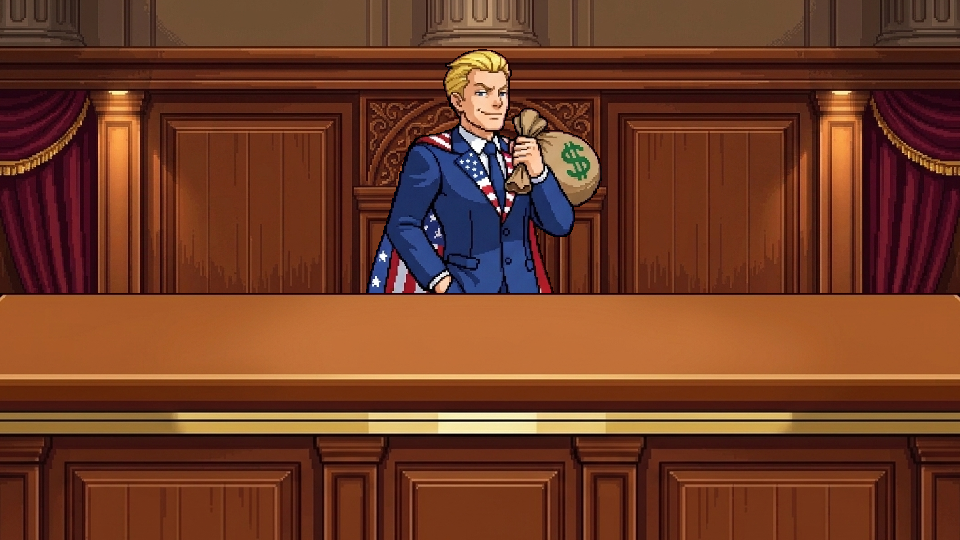
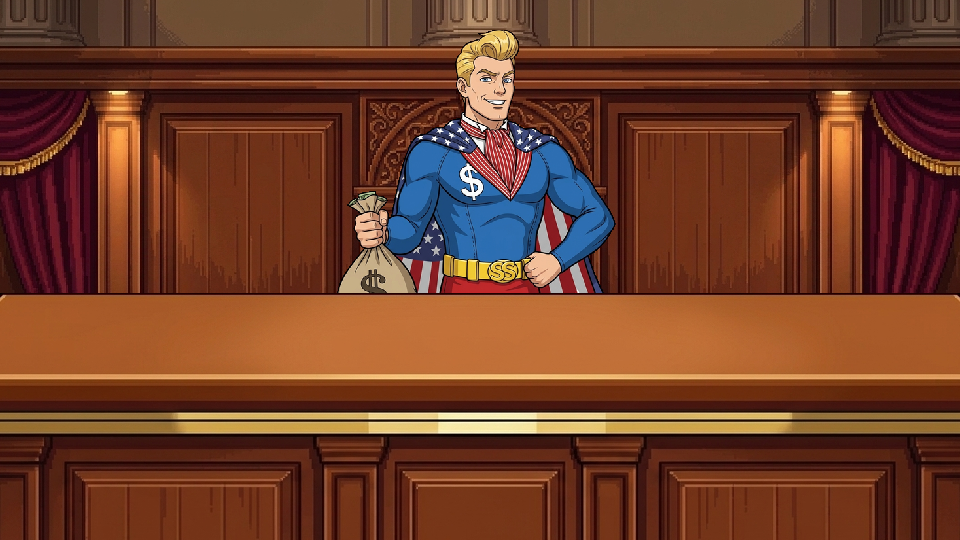
fix supersam slam

Changed region(s): [[0.3438, 0.0593, 0.6562, 0.563]]

diff --git a/tests/assets/SlamSpriteContact.test.ts b/tests/assets/SlamSpriteContact.test.ts
@@ -1,0 +1,51 @@
+// @Architecture(descriptionShort="Guards Super Sam slam identity and desk-contact silhouette", type="test", icon="layers")
+import { execFileSync } from 'node:child_process';
+import path from 'node:path';
+import { describe, expect, it } from 'vitest';
+
+/**
+ * bench-slam is solved against chapulin_slam.png. Super Sam's slam must share that
+ * A-frame silhouette (see-through waist, palms at the bottom) or his torso paints
+ * onto the bench. Costume markers must also match idle/point/breakdown.
+ */
+function measurePng(fileName: string): {
+  notch: number | null;
+  palms: number;
+  center80: number;
+  red: number;
+  gold: number;
+} {
+  const pngPath = path.resolve(__dirname, '../../assets', fileName);
+  const py = [
+    'from PIL import Image',
+    'import json, numpy as np, sys',
+    'a = np.array(Image.open(sys.argv[1]).convert("RGBA"))',
+    'fg = a[:,:,3] > 8',
+    'h, w = fg.shape',
+    'cx0, cx1 = int(w * 0.35), int(w * 0.65)',
+    'notch = next((y for y in range(int(h * 0.70), h)',
+    '    if fg[y,:cx0].any() and fg[y,cx1:].any() and fg[y,cx0:cx1].mean() < 0.25), None)',
+    'rows = np.where(fg.any(1))[0]',
+    'mask = a[:,:,3] > 200',
+    'rgb = a[:,:,:3]',
+    'red = int(((rgb[:,:,0]>160)&(rgb[:,:,1]<90)&(rgb[:,:,2]<90)&mask).sum())',
+    'gold = int(((rgb[:,:,0]>180)&(rgb[:,:,1]>140)&(rgb[:,:,2]<80)&mask).sum())',
+    'print(json.dumps({"notch": notch, "palms": int(rows[-1]),',
+    '    "center80": int(fg[-80:, w//2].sum()), "red": red, "gold": gold}))'
+  ].join('\n');
+  return JSON.parse(execFileSync('python', ['-c', py, pngPath], { encoding: 'utf8' }));
+}
+
+describe('Super Sam slam sprite', () => {
+  it('keeps the desk-contact notch and matching costume colors', () => {
+    const m = measurePng('supersam_slam.png');
+    // Waist gap must open near chapulin_slam's 448/512 target, not down on the wood.
+    expect(m.notch).toBeGreaterThanOrEqual(430);
+    expect(m.notch).toBeLessThanOrEqual(460);
+    expect(m.palms).toBeGreaterThanOrEqual(500);
+    expect(m.center80).toBe(0);
+    // Idle/point have a gold SS belt and red trunks; the old slam had ~50 gold pixels.
+    expect(m.gold).toBeGreaterThan(1500);
+    expect(m.red).toBeGreaterThan(3000);
+  });
+});

diff --git a/src/audio/Private/tracks/TurnaroundTracks.ts b/src/audio/Private/tracks/TurnaroundTracks.ts
@@ -55,7 +55,7 @@ export const objectionTrack: TrackDefinition = {
     0, 0, [55,60,63], 0, 0, 0, [55,60,63], 0, 0, 0, [55,60,63], 0, 0, 0, [55,60,63], 0,
     0, 0, [57,62,65], 0, 0, 0, [57,62,65], 0, 0, 0, [57,62,65], 0, 0, 0, [57,62,65], 0,
     0, 0, [55,58,63], 0, 0, 0, [55,58,63], 0, 0, 0, [55,58,63], 0, 0, 0, [55,58,63], 0,
-    0, 0, [57,60,65], 0, 0, 0, [57,60,65], 0, 0, 0, [57,60,65], 0, [58,61,66], 0, 0, 0,
+    0, 0, [57,60,65], 0, 0, 0, [57,60,65], 0, 0, 0, [57,60,65], 0, 0, [58,61,66], 0, 0,
     0, 0, [55,58,62], 0, 0, 0, [55,58,62], 0, 0, 0, [55,58,62], 0, 0, 0, [55,58,62], 0,
     0, 0, [53,57,60], 0, 0, 0, [53,57,60], 0, 0, 0, [53,57,60], 0, 0, 0, [53,57,60], 0,
     0, 0, [55,58,62], 0, 0, 0, [55,58,62], 0, 0, 0, [55,58,62], 0, 0, 0, [55,58,62], 0,
@@ -63,9 +63,9 @@ export const objectionTrack: TrackDefinition = {
     0, 0, [55,60,63], 0, 0, 0, [55,60,63], 0, 0, 0, [55,60,63], 0, 0, 0, [55,60,63], 0,
     0, 0, [57,62,65], 0, 0, 0, [57,62,65], 0, 0, 0, [57,62,65], 0, 0, 0, [57,62,65], 0,
     0, 0, [55,58,63], 0, 0, 0, [55,58,63], 0, 0, 0, [55,58,63], 0, 0, 0, [55,58,63], 0,
-    0, 0, [57,60,65], 0, 0, 0, [57,60,65], 0, 0, 0, [57,60,65], 0, [58,61,66], 0, 0, 0,
+    0, 0, [57,60,65], 0, 0, 0, [57,60,65], 0, 0, 0, [57,60,65], 0, 0, [58,61,66], 0, 0,
     0, 0, [55,58,62], 0, 0, 0, [55,58,62], 0, 0, 0, [55,58,62], 0, 0, 0, [55,58,62], 0,
-    0, 0, [53,57,60], 0, 0, 0, [53,57,60], 0, 0, 0, 0, 0, 0, 0, 0, 0, 0, 0,
+    0, 0, [53,57,60], 0, 0, 0, [53,57,60], 0, 0, 0, 0, 0, 0, 0, 0, 0,
   ],
   drums: [
     'KC', 'H', 'S', 'H', 'K', 'KH', 'S', 'H', 'KC', 'H', 'S', 'H', 'K', 'KH', 'S', 'H', 

diff --git a/tests/audio/MidiMusicComposer.test.ts b/tests/audio/MidiMusicComposer.test.ts
@@ -66,10 +66,10 @@ describe('MidiMusicComposer & TRACK_CATALOG', () => {
     composer.playTrack('trial');
     expect(composer.isPlaying).toBe(true);
     expect(composer.currentTrack).toBe('trial');
-    expect(composer.bpm).toBe(115);
+    expect(composer.bpm).toBe(110);
     expect(composer.step).toBe(0);
 
-    const stepMs = 60000 / 115 / 4;
+    const stepMs = 60000 / 110 / 4;
     vi.advanceTimersByTime(stepMs * 35);
     expect(composer.step).toBe(35);
 
@@ -85,7 +85,7 @@ describe('MidiMusicComposer & TRACK_CATALOG', () => {
     composer.playTrack('pursuit');
     expect(composer.currentTrack).toBe('pursuit');
     expect(composer.step).toBe(0);
-    expect(composer.bpm).toBe(158);
+    expect(composer.bpm).toBe(162);
   });
 
   it('stops and resumes playback reliably', () => {

diff --git a/process_assets.py b/process_assets.py
@@ -15,7 +15,8 @@ import numpy as np
 from PIL import Image
 from scipy import ndimage
 
-CURRENT_ARTIFACT_DIR = r"C:\Users\luiso\.gemini\antigravity\brain\7510db40-7e99-4124-9a9f-6691a7d11982"
+CURRENT_ARTIFACT_DIR = r"C:\Users\luiso\.gemini\antigravity\brain\ea504c98-228b-4b3d-ad8c-a1a238ea3b94"
+PREV_ARTIFACT_DIR_8 = r"C:\Users\luiso\.gemini\antigravity\brain\242c8b4f-9360-4ec8-b38f-ecac117b2298"
 PREV_ARTIFACT_DIR_7 = r"C:\Users\luiso\.gemini\antigravity\brain\e2f1a61b-7fc5-4a37-9032-9dce380a7993"
 PREV_ARTIFACT_DIR_6 = r"C:\Users\luiso\.gemini\antigravity\brain\9705331f-35fd-45c3-b901-2f14dab60aed"
 PREV_ARTIFACT_DIR_5 = r"C:\Users\luiso\.gemini\antigravity\brain\ce3ca77a-06af-4722-9a51-22316a36f2fc"
@@ -26,10 +27,14 @@ PREV_ARTIFACT_DIR_1 = r"C:\Users\luiso\.gemini\antigravity\brain\91e780e1-ee3d-4
 PREV_ARTIFACT_DIR = r"C:\Users\luiso\.gemini\antigravity\brain\7d7a0700-41bc-4655-a94e-d886430a5c04"
 LEGACY_ARTIFACT_DIR = r"C:\Users\luiso\.gemini\antigravity\brain\d6601f43-c0ae-494d-bbf8-ca413b3a64ed"
 DEST_DIR = r"c:\Proyectos\ace-attorney-gemini\assets"
+REPO_RAW_DIR = os.path.join(os.path.dirname(os.path.abspath(__file__)), "tools", "raw")
 os.makedirs(DEST_DIR, exist_ok=True)
 
 def find_asset_file(filename: str) -> str:
-    for d in [CURRENT_ARTIFACT_DIR, PREV_ARTIFACT_DIR_7, PREV_ARTIFACT_DIR_6, PREV_ARTIFACT_DIR_5, PREV_ARTIFACT_DIR_4, PREV_ARTIFACT_DIR_3, PREV_ARTIFACT_DIR_2, PREV_ARTIFACT_DIR_1, PREV_ARTIFACT_DIR, LEGACY_ARTIFACT_DIR]:
+    search = [REPO_RAW_DIR, CURRENT_ARTIFACT_DIR, PREV_ARTIFACT_DIR_8, PREV_ARTIFACT_DIR_7,
+              PREV_ARTIFACT_DIR_6, PREV_ARTIFACT_DIR_5, PREV_ARTIFACT_DIR_4, PREV_ARTIFACT_DIR_3,
+              PREV_ARTIFACT_DIR_2, PREV_ARTIFACT_DIR_1, PREV_ARTIFACT_DIR, LEGACY_ARTIFACT_DIR]
+    for d in search:
         p = os.path.join(d, filename)
         if os.path.exists(p):
             return p
@@ -159,6 +164,33 @@ def extract_primary_components_fast(img: Image.Image, min_area_fraction: float =
 
     arr[~keep_mask, 3] = 0
     return Image.fromarray(arr, mode="RGBA")
+
+
+def slam_waist_notch_top(img: Image.Image) -> int | None:
+    """First row in the lower third where both arms are opaque and the waist is see-through."""
+    fg = np.array(img)[:, :, 3] > 8
+    h, w = fg.shape
+    cx0, cx1 = int(w * 0.35), int(w * 0.65)
+    for y in range(int(h * 0.70), h):
+        row = fg[y]
+        if row[:cx0].any() and row[cx1:].any() and row[cx0:cx1].mean() < 0.25:
+            return y
+    return None
+
+
+def shift_slam_to_notch(img: Image.Image, target_row: int) -> Image.Image:
+    """Translate a slam pose down so its waist notch matches bench-slam geometry."""
+    notch = slam_waist_notch_top(img)
+    if notch is None:
+        return img
+    # Palms sit near the bottom; more than 8px eats them.
+    shift = max(0, min(8, target_row - notch))
+    if shift == 0:
+        return img
+    arr = np.array(img)
+    out = np.zeros_like(arr)
+    out[shift:] = arr[:-shift]
+    return Image.fromarray(out, mode="RGBA")
 
 
 # -------------------------------------------------------------
@@ -370,6 +402,20 @@ def run_all_fixes():
             custom_crops=None,
             drop_boxes_per_cell=sam_drop
         )
+
+    # Dedicated Super Sam slam: same identity as idle/point, Chapulín slam contact silhouette.
+    sam_slam_sheet = find_asset_file("supersam_slam_sheet_raw.png")
+    if os.path.exists(sam_slam_sheet):
+        img = Image.open(sam_slam_sheet)
+        w, h = img.size
+        cell = img.crop((0, 0, w // 2, h // 2))
+        cleaned = remove_bg_magenta_vectorized(cell, threshold=165.0, despill_depth=4)
+        cleaned = clean_edges_vectorized(cleaned, depth=2)
+        filtered = extract_primary_components_fast(cleaned, min_area_fraction=0.10)
+        aligned = shift_slam_to_notch(filtered, target_row=448)
+        final_slam = despill_final(aligned)
+        final_slam.save(os.path.join(DEST_DIR, "supersam_slam.png"))
+        print("  [OK] Processed dedicated Super Sam desk slam sprite")
 
     # 3. El Tripaseca
     process_character_sheet(

diff --git a/docs/lessons-learned/decoupled-character-furniture-sprites.md b/docs/lessons-learned/decoupled-character-furniture-sprites.md
@@ -60,7 +60,10 @@ That makes the bench's on-screen scale a hard constraint rather than a compositi
 
 The lesson generalises: before tuning a contact pose's position, compute the *depth* of the surface it has to land on and compare it against the distance between the sprite's own contact features. If the surface is too shallow, the position search is unsatisfiable and no amount of nudging will find it. A solver over a few candidate furniture widths finds this in one pass — worth doing before iterating visually.
 
-### 10. Solve Contact Geometry, Do Not Eyeball It
+### 10. A Slam Pose Must Share Both Identity And The Contact Silhouette
+Idle, point, and breakdown can be waist-up busts that the bench simply occludes. A slam pose paints *over* the bench, so a restyled close-up (centered logo, filled waist, no arm-gap) will look like a different character *and* dump torso pixels onto the wood. Generate slam from the accepted idle identity, but lock the Chapulín/Don Ramón A-frame: both palms at the bottom, magenta notch between the forearms, belt and bag kept above that notch.
+
+### 11. Solve Contact Geometry, Do Not Eyeball It
 Three separate attempts at this one contact pose were wrong, and each error was ~2–12px — below what a screenshot downscaled to fit a review pane can resolve. Describing what a render "looks like" produced confident wrong answers twice: a gap was reported as absent when it was 1.9px open, and a flat strip painted by the furniture asset was misread as a sprite positioning problem.
 
 What worked, every time, was arithmetic on measured constants:

diff --git a/docs/architecture/asset-pipeline.md b/docs/architecture/asset-pipeline.md
@@ -33,6 +33,7 @@ The pipeline performs:
 ### 2. Grid Slicing & Extended Bounds ([[process_assets.py#Connected Component Filtering]])
 - Character sheets are formatted as 2x2 grids (4 distinct emotional poses per character).
 - **Extended Gesture Bounds**: Poses with outstretched gestures (e.g. `chapulin_point`) support custom crop windows ($x: 0..576$) to capture complete pointing fingers and hands with zero clipping.
+- **Dedicated Super Sam slam**: `supersam_slam` is extracted from the top-left cell of [[tools/raw/supersam_slam_sheet_raw.png]], then translated so the waist notch lands on the same contact row as `chapulin_slam` (`448/512`). Re-running the 2x2 Super Sam sheet must not keep the slam cell — that pose has to match idle identity *and* the shared `bench-slam` silhouette.
 - **Accurate Drop Boxes**: Speech bubbles and cross-cell neighbor bleed are dropped using calibrated bounding boxes that preserve character hair, hands, and hats.
 - Cut-ins are formatted as 2x2 grids (4 distinct shout placards).
 - Evidence items are extracted from a 4x2 icon grid.

diff --git a/docs/specs/artistic-direction.md b/docs/specs/artistic-direction.md
@@ -45,7 +45,7 @@ Characters are rendered in high-definition 2D Capcom sprite style with crisp dar
 * **Palette**: Deep Navy (`#1B263B`), Star Spangled Red/White/Blue (`#E63946`, `#FFFFFF`, `#1D3557`), Dollar Green (`#2A9D8F`), Gold (`#E9C46A`).
 * **Sprite Poses** ([[assets/supersam_sprites.png]]):
   * `supersam_idle`: Smug half-smile clutching the money bag over his shoulder.
-  * `supersam_slam`: Smashing the prosecutor bench with the heavy coin sack.
+  * `supersam_slam`: Double-palm desk slam with the cash sack slung over the shoulder. Same costume as idle/point (off-center `$`, gold SS belt, red trunks, flag cape). Contact silhouette matches other slam poses: A-frame arms and a transparent waist notch so the bench covers the waist instead of the torso painting onto the wood.
   * `supersam_point`: Arrogant finger-pointing objection shout ("Time is money!").
   * `supersam_breakdown`: Screaming recoil as dollar bills scatter into the air.
 
